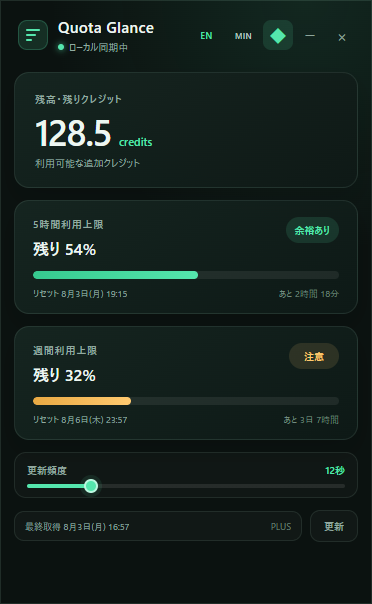
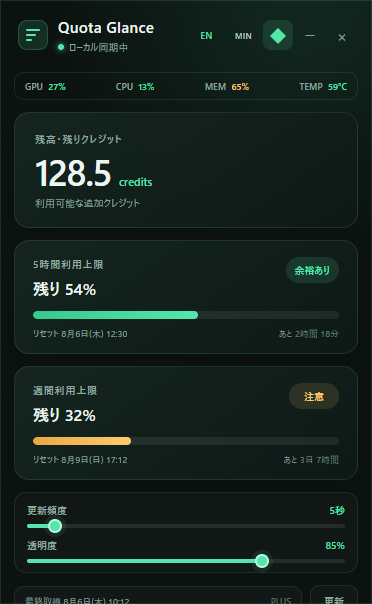
Fix opacity slider and retain system status in minimum mode

diff --git a/renderer/renderer.js b/renderer/renderer.js
@@ -160,9 +160,18 @@ function t(key, values = {}) {
 function renderRefreshInterval() {
   const progress = ((refreshSeconds - 1) / 59) * 100;
   elements.refreshInterval.value = String(refreshSeconds);
-  elements.refreshInterval.style.setProperty('--refresh-progress', `${progress}%`);
+  elements.refreshInterval.style.setProperty('--range-progress', `${progress}%`);
   elements.refreshIntervalValue.textContent = t('refreshIntervalValue', { seconds: refreshSeconds });
 }
+
+function renderOpacity() {
+  const percent = Math.round(opacity * 100);
+  const progress = ((percent - 40) / 60) * 100;
+  elements.opacity.value = String(percent);
+  elements.opacity.style.setProperty('--range-progress', `${progress}%`);
+  elements.opacityValue.textContent = `${percent}%`;
+}
+
 function renderMetrics(metrics = {}) {
   for (const [key, suffix, kind] of [['gpu','%','usage'],['cpu','%','usage'],['mem','%','usage'],['temp','°C','temp']]) { const el = elements[`metric${key[0].toUpperCase()}${key.slice(1)}`]; const value = metrics[key]; el.textContent = Number.isFinite(value) ? `${Math.round(value)}${suffix}` : '--'; el.className = Number.isFinite(value) ? (value >= (kind === 'temp' ? 80 : 80) ? 'critical' : value >= (kind === 'temp' ? 60 : 50) ? 'warning' : 'good') : ''; }
 }
@@ -311,7 +320,11 @@ async function refresh() {
 }
 
 elements.refreshButton.addEventListener('click', refresh);
-elements.opacity.addEventListener('input', () => { opacity = Number(elements.opacity.value) / 100; elements.opacityValue.textContent = `${Math.round(opacity * 100)}%`; window.codexUsage.setOpacity(opacity); });
+elements.opacity.addEventListener('input', () => {
+  opacity = Number(elements.opacity.value) / 100;
+  renderOpacity();
+  window.codexUsage.setOpacity(opacity);
+});
 elements.minimumModeButton.addEventListener('click', async () => {
   minimumMode = await window.codexUsage.setMinimumMode(!minimumMode);
   localStorage.setItem('quota-glance-minimum-mode', String(minimumMode));
@@ -351,7 +364,9 @@ async function initialize() {
   refreshSeconds = Math.min(60, Math.max(1, Math.round(milliseconds / 1000)));
   renderRefreshInterval();
   currentSnapshot = await window.codexUsage.get();
-  const preferences = await window.codexUsage.getPreferences(); opacity = preferences.opacity; elements.opacity.value = String(Math.round(opacity * 100)); elements.opacityValue.textContent = `${Math.round(opacity * 100)}%`;
+  const preferences = await window.codexUsage.getPreferences();
+  opacity = preferences.opacity;
+  renderOpacity();
   renderMetrics(await window.codexUsage.getSystemMetrics());
   const savedMinimumMode = localStorage.getItem('quota-glance-minimum-mode') === 'true';
   minimumMode = savedMinimumMode

diff --git a/scripts/capture-screenshot.js b/scripts/capture-screenshot.js
@@ -14,7 +14,7 @@ app.whenReady().then(async () => {
   const criticalPreview = process.argv.includes('--critical');
   const window = new BrowserWindow({
     width: minimumMode ? 310 : 372,
-    height: minimumMode ? 280 : 604,
+    height: minimumMode ? 310 : 604,
     show: false,
     frame: false,
     backgroundColor: '#0b1210',
@@ -58,6 +58,18 @@ app.whenReady().then(async () => {
     };
   })()`);
   if (interaction.stored !== '12') throw new Error('Refresh slider did not persist its value');
+  const opacityInteraction = await window.webContents.executeJavaScript(`(() => {
+    const slider = document.querySelector('#opacity');
+    slider.value = '85';
+    slider.dispatchEvent(new Event('input', { bubbles: true }));
+    return {
+      label: document.querySelector('#opacity-value').textContent,
+      progress: slider.style.getPropertyValue('--range-progress'),
+    };
+  })()`);
+  if (opacityInteraction.label !== '85%' || opacityInteraction.progress !== '75%') {
+    throw new Error(`Opacity slider visual progress did not match: ${JSON.stringify(opacityInteraction)}`);
+  }
   const minimumInteraction = await window.webContents.executeJavaScript(`(async () => {
     const button = document.querySelector('#minimum-mode-button');
     const wasMinimum = document.documentElement.classList.contains('minimum-mode');
@@ -82,7 +94,7 @@ app.whenReady().then(async () => {
   const output = path.join(__dirname, '..', 'assets', `quota-glance-screenshot-${language}${suffix}.png`);
   await fs.writeFile(output, image.toPNG());
   console.log(output);
-  console.log(JSON.stringify({ defaultInterval, stateCheck, sliderInteraction: interaction, minimumInteraction }));
+  console.log(JSON.stringify({ defaultInterval, stateCheck, sliderInteraction: interaction, opacityInteraction, minimumInteraction }));
   clearTimeout(captureTimeout);
   window.destroy();
   app.exit(0);

diff --git a/test/renderer-contract.test.js b/test/renderer-contract.test.js
@@ -15,10 +15,22 @@ test('レンダラーが参照するIDはすべてHTMLに存在する', () => {
   }
 });
 
+test('opacity slider keeps its own visual progress', () => {
+  const root = path.join(__dirname, '..');
+  const script = fs.readFileSync(path.join(root, 'renderer', 'renderer.js'), 'utf8');
+  const css = fs.readFileSync(path.join(root, 'renderer', 'styles.css'), 'utf8');
+
+  assert.match(script, /function renderOpacity\(\)/);
+  assert.match(script, /elements\.opacity\.style\.setProperty\('--range-progress', `\$\{progress\}%`\);/);
+  assert.match(css, /--range-progress:/);
+  assert.match(css, /var\(--range-progress\)/);
+});
+
 test('残り割合の色分岐とミニマムモードの契約を維持する', () => {
   const root = path.join(__dirname, '..');
   const script = fs.readFileSync(path.join(root, 'renderer', 'renderer.js'), 'utf8');
   const css = fs.readFileSync(path.join(root, 'renderer', 'styles.css'), 'utf8');
+  const main = fs.readFileSync(path.join(root, 'main.js'), 'utf8');
 
   assert.match(script, /if \(remaining <= 30\) return 'critical';/);
   assert.match(script, /if \(remaining < 50\) return 'warning';/);
@@ -26,4 +38,6 @@ test('残り割合の色分岐とミニマムモードの契約を維持する',
   assert.match(script, /setMinimumMode\(!minimumMode\)/);
   assert.match(css, /\.progress-fill\.critical/);
   assert.match(css, /\.minimum-mode \.app-shell/);
+  assert.doesNotMatch(css, /\.minimum-mode \.status-strip\s*\{\s*display\s*:\s*none/);
+  assert.match(main, /mainWindow\.setSize\(310, 310, true\);/);
 });

diff --git a/renderer/styles.css b/renderer/styles.css
@@ -128,7 +128,7 @@ button { font: inherit; }
 .refresh-settings label { color: var(--muted); font-size: 10px; font-weight: 650; }
 .refresh-settings output { color: var(--accent); font-size: 10px; font-weight: 700; font-variant-numeric: tabular-nums; }
 .refresh-settings input[type="range"] {
-  --refresh-progress: 6.78%;
+  --range-progress: 0%;
   appearance: none;
   display: block;
   width: 100%;
@@ -137,7 +137,7 @@ button { font: inherit; }
   border: 0;
   border-radius: 99px;
   outline: 0;
-  background: linear-gradient(90deg, var(--accent) 0 var(--refresh-progress), rgba(255,255,255,0.09) var(--refresh-progress) 100%);
+  background: linear-gradient(90deg, var(--accent) 0 var(--range-progress), rgba(255,255,255,0.09) var(--range-progress) 100%);
   cursor: pointer;
 }
 .refresh-settings input[type="range"]::-webkit-slider-thumb {
@@ -171,7 +171,6 @@ footer { display: flex; align-items: center; gap: 8px; margin-top: 0; }
 .error-message { margin: -3px 2px 0; color: var(--warn); font-size: 9px; line-height: 1.45; }
 
 .minimum-mode .app-shell { gap: 8px; padding: 10px; }
-.minimum-mode .status-strip { display:none; }
 .minimum-mode .titlebar { min-height: 36px; padding: 0 1px 2px; }
 .minimum-mode .brand { gap: 8px; }
 .minimum-mode .brand-mark { width: 26px; height: 26px; padding: 6px; border-radius: 8px; }

diff --git a/scripts/screenshot-preload.js b/scripts/screenshot-preload.js
@@ -33,6 +33,7 @@ const snapshot = {
 
 let refreshIntervalMs = 5_000;
 let minimumMode = false;
+let opacity = 1;
 
 contextBridge.exposeInMainWorld('codexUsage', {
   get: async () => snapshot,
@@ -50,6 +51,18 @@ contextBridge.exposeInMainWorld('codexUsage', {
     minimumMode = enabled === true;
     return minimumMode;
   },
+  getPreferences: async () => ({
+    bounds: null,
+    language: 'ja',
+    refreshIntervalMs,
+    opacity,
+    minimumMode,
+  }),
+  setOpacity: async (value) => {
+    opacity = value;
+    return opacity;
+  },
+  getSystemMetrics: async () => ({ gpu: 27, cpu: 13, mem: 65, temp: 59 }),
   minimize: () => {},
   close: () => {},
   revealSource: () => {},

diff --git a/main.js b/main.js
@@ -116,8 +116,8 @@ function setMinimumMode(enabled) {
   isMinimumMode = enabled === true;
   if (isMinimumMode) {
     standardWindowBounds = mainWindow.getBounds();
-    mainWindow.setMinimumSize(292, 258);
-    mainWindow.setSize(310, 280, true);
+    mainWindow.setMinimumSize(292, 290);
+    mainWindow.setSize(310, 310, true);
   } else {
     mainWindow.setMinimumSize(340, 556);
     mainWindow.setSize(
